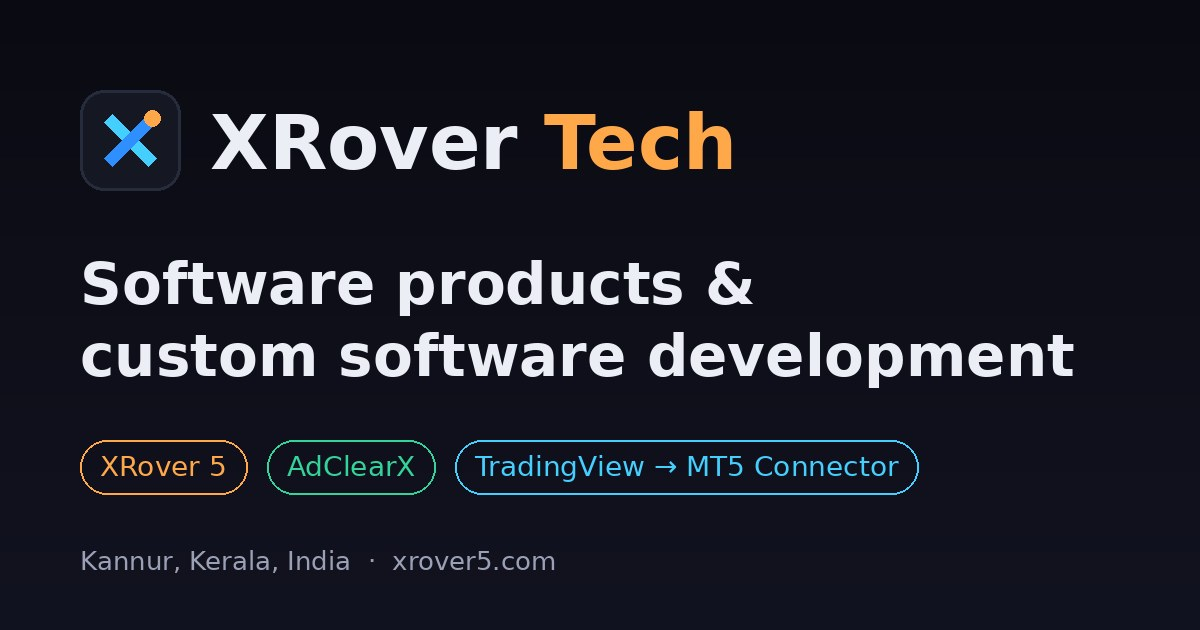
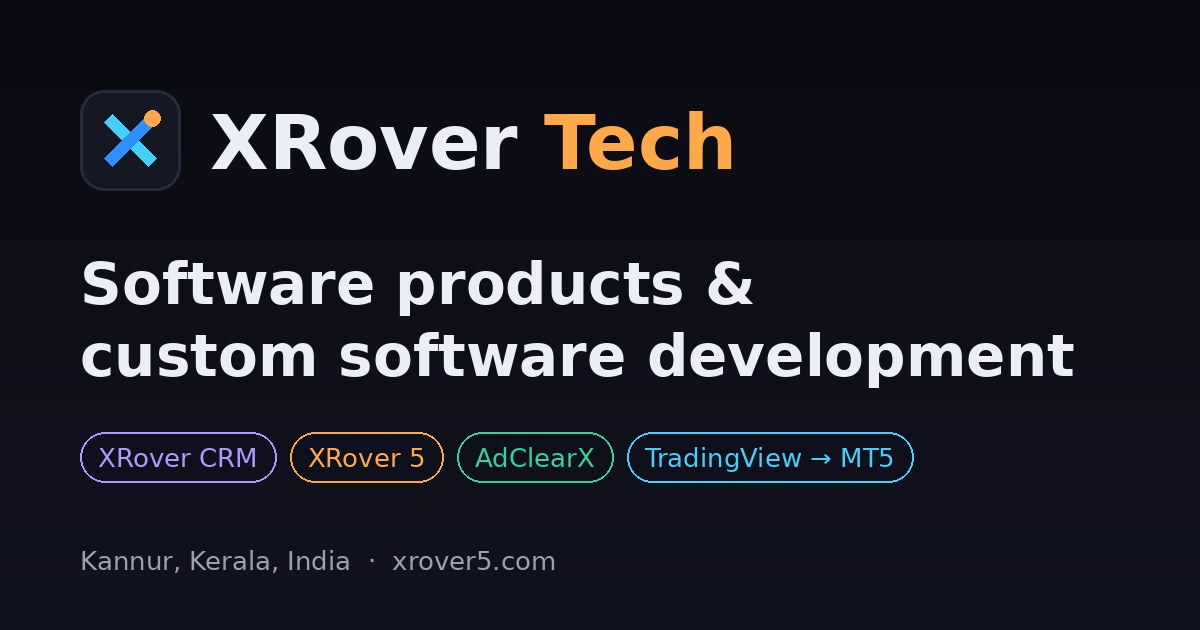
Add XRover CRM product: leads, WhatsApp Business API (voice chat & calls, chatbot, automated follow-ups), HR, accounts
Claude-Session: https://claude.ai/code/session_019he4hVPdZxb8uFMKnDGTTM

Changed region(s): [[0.0617, 0.6635, 0.7708, 0.8143]]

diff --git a/products/index.html b/products/index.html
@@ -3,22 +3,22 @@
 <head>
 <meta charset="utf-8">
 <meta name="viewport" content="width=device-width, initial-scale=1, viewport-fit=cover">
-<title>Products – XRover 5, AdClearX &amp; TradingView to MT5 Connector | XRover Tech</title>
-<meta name="description" content="Software products by XRover Tech: XRover 5 chart-analysis software for TradingView, AdClearX ad policy checker for Meta ads, and the TradingView to MT5 webhook connector.">
+<title>Products – XRover CRM, XRover 5, AdClearX &amp; MT5 Connector | XRover Tech</title>
+<meta name="description" content="XRover CRM: leads, HR, accounts and WhatsApp Business API with voice calls and automated follow-ups. Plus XRover 5, AdClearX and the TradingView to MT5 Connector.">
 <link rel="canonical" href="https://xrover5.com/products/">
 <meta name="robots" content="index, follow, max-image-preview:large">
 <meta name="theme-color" content="#0a0b12">
 <meta property="og:type" content="website">
 <meta property="og:site_name" content="XRover Tech">
 <meta property="og:url" content="https://xrover5.com/products/">
-<meta property="og:title" content="Products – XRover 5, AdClearX &amp; TradingView to MT5 Connector | XRover Tech">
-<meta property="og:description" content="Software products by XRover Tech: XRover 5 chart-analysis software for TradingView, AdClearX ad policy checker for Meta ads, and the TradingView to MT5 webhook connector.">
+<meta property="og:title" content="Products – XRover CRM, XRover 5, AdClearX &amp; MT5 Connector | XRover Tech">
+<meta property="og:description" content="XRover CRM: leads, HR, accounts and WhatsApp Business API with voice calls and automated follow-ups. Plus XRover 5, AdClearX and the TradingView to MT5 Connector.">
 <meta property="og:image" content="https://xrover5.com/assets/og-xrover-tech.jpg">
 <meta property="og:image:width" content="1200">
 <meta property="og:image:height" content="630">
 <meta name="twitter:card" content="summary_large_image">
-<meta name="twitter:title" content="Products – XRover 5, AdClearX &amp; TradingView to MT5 Connector | XRover Tech">
-<meta name="twitter:description" content="Software products by XRover Tech: XRover 5 chart-analysis software for TradingView, AdClearX ad policy checker for Meta ads, and the TradingView to MT5 webhook connector.">
+<meta name="twitter:title" content="Products – XRover CRM, XRover 5, AdClearX &amp; MT5 Connector | XRover Tech">
+<meta name="twitter:description" content="XRover CRM: leads, HR, accounts and WhatsApp Business API with voice calls and automated follow-ups. Plus XRover 5, AdClearX and the TradingView to MT5 Connector.">
 <meta name="twitter:image" content="https://xrover5.com/assets/og-xrover-tech.jpg">
 <link rel="icon" type="image/png" href="/assets/favicon.png">
 <link rel="apple-touch-icon" href="/assets/apple-touch-icon.png">
@@ -55,8 +55,8 @@
    "@type": "WebPage",
    "@id": "https://xrover5.com/products/",
    "url": "https://xrover5.com/products/",
-   "name": "Products – XRover 5, AdClearX & TradingView to MT5 Connector | XRover Tech",
-   "description": "Software products by XRover Tech: XRover 5 chart-analysis software for TradingView, AdClearX ad policy checker for Meta ads, and the TradingView to MT5 webhook connector.",
+   "name": "Products – XRover CRM, XRover 5, AdClearX & MT5 Connector | XRover Tech",
+   "description": "XRover CRM: leads, HR, accounts and WhatsApp Business API with voice calls and automated follow-ups. Plus XRover 5, AdClearX and the TradingView to MT5 Connector.",
    "isPartOf": {
     "@id": "https://xrover5.com/#website"
    },
@@ -73,6 +73,21 @@
      "position": 1,
      "item": {
       "@type": "SoftwareApplication",
+      "name": "XRover CRM",
+      "description": "Leads, sales, HR and accounts in one system, with WhatsApp Business API messaging, WhatsApp voice calls and automated follow-ups built in.",
+      "applicationCategory": "BusinessApplication",
+      "operatingSystem": "Web",
+      "url": "https://xrover5.com/products/#crm",
+      "publisher": {
+       "@id": "https://xrover5.com/#org"
+      }
+     }
+    },
+    {
+     "@type": "ListItem",
+     "position": 2,
+     "item": {
+      "@type": "SoftwareApplication",
       "name": "XRover 5",
       "description": "A TradingView indicator that analyses candlestick data in real time and maps zones, levels and alerts directly on the chart, with Telegram notifications.",
       "applicationCategory": "BusinessApplication",
@@ -85,7 +100,7 @@
     },
     {
      "@type": "ListItem",
-     "position": 2,
+     "position": 3,
      "item": {
       "@type": "SoftwareApplication",
       "name": "AdClearX",
@@ -100,7 +115,7 @@
     },
     {
      "@type": "ListItem",
-     "position": 3,
+     "position": 4,
      "item": {
       "@type": "SoftwareApplication",
       "name": "TradingView → MT5 Connector",
@@ -263,6 +278,21 @@ footer { border-top: 1px solid var(--line); background: var(--bg-2); padding-blo
 </style>
 <style>
 /* XRover Tech */
+.mods { display: grid; grid-template-columns: repeat(auto-fit, minmax(min(100%, 250px), 1fr)); gap: 16px; margin-top: 8px; }
+.mods .card h3 { display: flex; align-items: center; gap: 10px; }
+.mods .card h3 i { width: 10px; height: 10px; border-radius: 3px; display: inline-block; }
+.mods .card ul { margin: 0; padding-left: 1.1em; color: var(--muted); display: grid; gap: 6px; font-size: 15px; }
+.hl { display: grid; grid-template-columns: repeat(auto-fit, minmax(min(100%, 230px), 1fr)); gap: 14px; margin: 26px 0 10px; }
+.hl div { background: color-mix(in oklab, #8b6cff 12%, var(--surface)); border: 1px solid color-mix(in oklab, #8b6cff 40%, var(--line)); border-radius: 14px; padding: 16px 18px; }
+.hl b { display: block; font-size: 16px; margin-bottom: 4px; } .hl span { color: var(--muted); font-size: 14px; }
+.wa { background: linear-gradient(170deg, var(--surface-2), var(--bg-2)); border: 1px solid var(--line); border-radius: 16px; padding: 16px; display: grid; gap: 10px; font-size: 14px; }
+.wa .hd { display: flex; justify-content: space-between; align-items: center; padding-bottom: 8px; border-bottom: 1px solid var(--line); }
+.bub { max-width: 82%; padding: 10px 12px; border-radius: 12px; line-height: 1.45; }
+.bub.in { background: var(--surface); border: 1px solid var(--line); justify-self: start; }
+.bub.out { background: color-mix(in oklab, #25d366 22%, var(--surface)); border: 1px solid color-mix(in oklab, #25d366 40%, var(--line)); justify-self: end; }
+.bub small { display: block; color: var(--muted); font-size: 11px; margin-top: 4px; }
+.callbar { display: flex; gap: 10px; align-items: center; background: var(--bg-2); border: 1px solid var(--line); border-radius: 12px; padding: 10px 12px; }
+.callbar .dot { width: 10px; height: 10px; border-radius: 50%; background: #25d366; box-shadow: 0 0 0 4px color-mix(in oklab, #25d366 25%, transparent); }
 .wordmark { display: flex; align-items: center; gap: 10px; text-decoration: none; font-family: var(--display); font-weight: 800; font-size: 18px; letter-spacing: .01em; color: var(--fg); }
 .wordmark svg { width: 34px; height: 34px; flex: none; }
 .wordmark span b { color: var(--ember); font-weight: 800; }
@@ -336,11 +366,70 @@ footer { border-top: 1px solid var(--line); background: var(--bg-2); padding-blo
   <div class="wrap page-head">
     <span class="eyebrow">Products</span>
     <h1>Our software products</h1>
-    <p class="lead">Three products designed, built and supported by XRover Tech.</p>
-    <div class="btn-row"><a class="btn btn-ghost" href="#xrover5">XRover 5</a><a class="btn btn-ghost" href="#adclearx">AdClearX</a><a class="btn btn-ghost" href="#mt5-connector">TradingView → MT5 Connector</a></div>
+    <p class="lead">Business software and SaaS products designed, built and supported by XRover Tech.</p>
+    <div class="btn-row"><a class="btn btn-ghost" href="#crm">XRover CRM</a><a class="btn btn-ghost" href="#xrover5">XRover 5</a><a class="btn btn-ghost" href="#adclearx">AdClearX</a><a class="btn btn-ghost" href="#mt5-connector">TradingView → MT5 Connector</a></div>
   </div>
 
-  <section class="band" id="xrover5" style="padding-top:36px">
+  <section class="band" id="crm" style="padding-top:36px">
+    <div class="wrap product">
+      <div>
+        <span class="pill live">Live</span>
+        <h2>XRover CRM</h2>
+        <p class="lead">An all-in-one solution for complete business operations: lead management, sales, HR and accounts in one place, with the WhatsApp Business API built in.</p>
+        <div class="hl">
+          <div><b>WhatsApp voice chat & calls</b><span>Talk to customers by WhatsApp voice message or voice call, right from the CRM.</span></div>
+          <div><b>Automated follow-ups</b><span>Scheduled WhatsApp follow-ups and reminders, so no lead goes cold.</span></div>
+          <div><b>WhatsApp chatbot</b><span>Instant auto-replies with buttons and AI until your team takes over.</span></div>
+          <div><b>One shared inbox</b><span>WhatsApp chats and company email in one place for your team.</span></div>
+        </div>
+        <div class="btn-row" style="margin-top:12px"><a class="btn btn-primary" href="/contact/">Book a CRM demo</a></div>
+      </div>
+      <div class="wa" aria-hidden="true">
+        <div class="hd"><b>WhatsApp · New lead</b><span class="pill live">Auto-assigned</span></div>
+        <div class="bub in">Hi, I saw your ad. Can you share the details?<small>10:02</small></div>
+        <div class="bub out">Hello Anil 👋 Thanks for reaching out! Choose an option below.<small>10:02 · Auto-reply</small></div>
+        <div class="bub in">▶ ━━━━━━━━ 0:18 &nbsp;Voice message<small>10:05</small></div>
+        <div class="callbar"><span class="dot"></span><span><b>WhatsApp voice call</b><br><span class="mono">Rahul (Sales) · 03:42</span></span></div>
+        <div class="bub out">Follow-up scheduled for tomorrow, 11:00 AM ✓<small>Automation</small></div>
+      </div>
+    </div>
+    <div class="wrap">
+      <div class="mods" style="margin-top:44px">
+        <div class="card"><h3><i style="background:#8b6cff"></i>Lead management</h3><ul>
+          <li>Leads from Meta lead ads, Click-to-WhatsApp ads, YouTube and website forms</li>
+          <li>Automatic lead distribution based on staff attendance</li>
+          <li>Lead stages, notes, reminders and full history</li>
+          <li>Unattended leads reassigned automatically in office hours</li></ul></div>
+        <div class="card"><h3><i style="background:#25d366"></i>WhatsApp Business API</h3><ul>
+          <li>Official WhatsApp Cloud API integration</li>
+          <li>WhatsApp voice messages and voice calls</li>
+          <li>Chatbot with buttons, AI replies and language choice</li>
+          <li>Automated follow-ups, welcome messages and broadcasts</li></ul></div>
+        <div class="card"><h3><i style="background:#45cfff"></i>HR management</h3><ul>
+          <li>Attendance with face scan and location</li>
+          <li>Salary plans, targets and incentives</li>
+          <li>Roles for admins, managers and staff</li>
+          <li>Staff performance dashboards</li></ul></div>
+        <div class="card"><h3><i style="background:#ffa84a"></i>Accounts management</h3><ul>
+          <li>Income, expenses and payment records</li>
+          <li>Payment links and payment-proof approvals</li>
+          <li>Partner and investment tracking with monthly summaries</li>
+          <li>Reports for owners and admins</li></ul></div>
+        <div class="card"><h3><i style="background:#fb6f84"></i>Customer app</h3><ul>
+          <li>Customer portal with in-app videos</li>
+          <li>Automatic renewal and expiry reminders</li>
+          <li>In-app chat and free browser voice calls</li>
+          <li>Terms acceptance and quizzes before access</li></ul></div>
+        <div class="card"><h3><i style="background:#34d399"></i>Communication & inbox</h3><ul>
+          <li>Company email inbox inside the CRM</li>
+          <li>Team chat history on every customer</li>
+          <li>Admin-only visibility controls</li>
+          <li>Notifications for new leads and tasks</li></ul></div>
+      </div>
+    </div>
+  </section>
+
+  <section class="band" id="xrover5">
     <div class="wrap product">
       <div>
         <span class="pill live">Live</span>

diff --git a/index.html b/index.html
@@ -4,7 +4,7 @@
 <meta charset="utf-8">
 <meta name="viewport" content="width=device-width, initial-scale=1, viewport-fit=cover">
 <title>XRover Tech – Software Products &amp; Custom Software Development</title>
-<meta name="description" content="XRover Tech is a software company in Kerala, India building SaaS products, TradingView tools and custom business software. Products: XRover 5, AdClearX and the TradingView to MT5 Connector.">
+<meta name="description" content="XRover Tech is a software company in Kerala, India. Products: XRover CRM with WhatsApp Business API, HR and accounts, plus XRover 5, AdClearX and a TradingView to MT5 Connector.">
 <link rel="canonical" href="https://xrover5.com/">
 <meta name="robots" content="index, follow, max-image-preview:large">
 <meta name="theme-color" content="#0a0b12">
@@ -12,13 +12,13 @@
 <meta property="og:site_name" content="XRover Tech">
 <meta property="og:url" content="https://xrover5.com/">
 <meta property="og:title" content="XRover Tech – Software Products &amp; Custom Software Development">
-<meta property="og:description" content="XRover Tech is a software company in Kerala, India building SaaS products, TradingView tools and custom business software. Products: XRover 5, AdClearX and the TradingView to MT5 Connector.">
+<meta property="og:description" content="XRover Tech is a software company in Kerala, India. Products: XRover CRM with WhatsApp Business API, HR and accounts, plus XRover 5, AdClearX and a TradingView to MT5 Connector.">
 <meta property="og:image" content="https://xrover5.com/assets/og-xrover-tech.jpg">
 <meta property="og:image:width" content="1200">
 <meta property="og:image:height" content="630">
 <meta name="twitter:card" content="summary_large_image">
 <meta name="twitter:title" content="XRover Tech – Software Products &amp; Custom Software Development">
-<meta name="twitter:description" content="XRover Tech is a software company in Kerala, India building SaaS products, TradingView tools and custom business software. Products: XRover 5, AdClearX and the TradingView to MT5 Connector.">
+<meta name="twitter:description" content="XRover Tech is a software company in Kerala, India. Products: XRover CRM with WhatsApp Business API, HR and accounts, plus XRover 5, AdClearX and a TradingView to MT5 Connector.">
 <meta name="twitter:image" content="https://xrover5.com/assets/og-xrover-tech.jpg">
 <link rel="icon" type="image/png" href="/assets/favicon.png">
 <link rel="apple-touch-icon" href="/assets/apple-touch-icon.png">
@@ -56,7 +56,7 @@
    "@id": "https://xrover5.com/",
    "url": "https://xrover5.com/",
    "name": "XRover Tech – Software Products & Custom Software Development",
-   "description": "XRover Tech is a software company in Kerala, India building SaaS products, TradingView tools and custom business software. Products: XRover 5, AdClearX and the TradingView to MT5 Connector.",
+   "description": "XRover Tech is a software company in Kerala, India. Products: XRover CRM with WhatsApp Business API, HR and accounts, plus XRover 5, AdClearX and a TradingView to MT5 Connector.",
    "isPartOf": {
     "@id": "https://xrover5.com/#website"
    },
@@ -212,6 +212,21 @@ footer { border-top: 1px solid var(--line); background: var(--bg-2); padding-blo
 </style>
 <style>
 /* XRover Tech */
+.mods { display: grid; grid-template-columns: repeat(auto-fit, minmax(min(100%, 250px), 1fr)); gap: 16px; margin-top: 8px; }
+.mods .card h3 { display: flex; align-items: center; gap: 10px; }
+.mods .card h3 i { width: 10px; height: 10px; border-radius: 3px; display: inline-block; }
+.mods .card ul { margin: 0; padding-left: 1.1em; color: var(--muted); display: grid; gap: 6px; font-size: 15px; }
+.hl { display: grid; grid-template-columns: repeat(auto-fit, minmax(min(100%, 230px), 1fr)); gap: 14px; margin: 26px 0 10px; }
+.hl div { background: color-mix(in oklab, #8b6cff 12%, var(--surface)); border: 1px solid color-mix(in oklab, #8b6cff 40%, var(--line)); border-radius: 14px; padding: 16px 18px; }
+.hl b { display: block; font-size: 16px; margin-bottom: 4px; } .hl span { color: var(--muted); font-size: 14px; }
+.wa { background: linear-gradient(170deg, var(--surface-2), var(--bg-2)); border: 1px solid var(--line); border-radius: 16px; padding: 16px; display: grid; gap: 10px; font-size: 14px; }
+.wa .hd { display: flex; justify-content: space-between; align-items: center; padding-bottom: 8px; border-bottom: 1px solid var(--line); }
+.bub { max-width: 82%; padding: 10px 12px; border-radius: 12px; line-height: 1.45; }
+.bub.in { background: var(--surface); border: 1px solid var(--line); justify-self: start; }
+.bub.out { background: color-mix(in oklab, #25d366 22%, var(--surface)); border: 1px solid color-mix(in oklab, #25d366 40%, var(--line)); justify-self: end; }
+.bub small { display: block; color: var(--muted); font-size: 11px; margin-top: 4px; }
+.callbar { display: flex; gap: 10px; align-items: center; background: var(--bg-2); border: 1px solid var(--line); border-radius: 12px; padding: 10px 12px; }
+.callbar .dot { width: 10px; height: 10px; border-radius: 50%; background: #25d366; box-shadow: 0 0 0 4px color-mix(in oklab, #25d366 25%, transparent); }
 .wordmark { display: flex; align-items: center; gap: 10px; text-decoration: none; font-family: var(--display); font-weight: 800; font-size: 18px; letter-spacing: .01em; color: var(--fg); }
 .wordmark svg { width: 34px; height: 34px; flex: none; }
 .wordmark span b { color: var(--ember); font-weight: 800; }
@@ -286,12 +301,12 @@ footer { border-top: 1px solid var(--line); background: var(--bg-2); padding-blo
     <div>
       <span class="eyebrow">XRover Tech · Software company · Kerala, India</span>
       <h1>We build software that <em>automates real work.</em></h1>
-      <p class="lead">XRover Tech designs, builds and supports SaaS products, TradingView tools and custom business software, from first idea to launch and beyond.</p>
+      <p class="lead">XRover Tech designs, builds and supports business software: an all-in-one CRM with WhatsApp Business API, SaaS products, TradingView tools and custom applications.</p>
       <div class="btn-row" style="margin-top:28px"><a class="btn btn-primary" href="/products/">Explore our products</a><a class="btn btn-ghost" href="/contact/">Start a project</a></div>
     </div>
     <div class="stack" aria-label="XRover Tech products">
       <div class="bar"><i></i><i></i><i></i></div>
-      <a class="prow" href="/products/#xrover5"><span class="picon" style="background:linear-gradient(135deg,#ffd394,#ffa84a)">X5</span><span><b>XRover 5</b><small>Chart-analysis software for TradingView</small></span><span class="pill live">Live</span></a><a class="prow" href="/products/#adclearx"><span class="picon" style="background:linear-gradient(135deg,#7ef0c3,#34d399)">AC</span><span><b>AdClearX</b><small>Ad policy & creative checker for Meta ads</small></span><span class="pill soon">Early access</span></a><a class="prow" href="/products/#mt5-connector"><span class="picon" style="background:linear-gradient(135deg,#8fd3ff,#2f8fff)">MT</span><span><b>TradingView → MT5 Connector</b><small>Webhook automation between TradingView and MetaTrader 5</small></span><span class="pill soon">Coming soon</span></a>
+      <a class="prow" href="/products/#crm"><span class="picon" style="background:linear-gradient(135deg,#c9b6ff,#8b6cff)">CR</span><span><b>XRover CRM</b><small>All-in-one business operations suite</small></span><span class="pill live">Live</span></a><a class="prow" href="/products/#xrover5"><span class="picon" style="background:linear-gradient(135deg,#ffd394,#ffa84a)">X5</span><span><b>XRover 5</b><small>Chart-analysis software for TradingView</small></span><span class="pill live">Live</span></a><a class="prow" href="/products/#adclearx"><span class="picon" style="background:linear-gradient(135deg,#7ef0c3,#34d399)">AC</span><span><b>AdClearX</b><small>Ad policy & creative checker for Meta ads</small></span><span class="pill soon">Early access</span></a><a class="prow" href="/products/#mt5-connector"><span class="picon" style="background:linear-gradient(135deg,#8fd3ff,#2f8fff)">MT</span><span><b>TradingView → MT5 Connector</b><small>Webhook automation between TradingView and MetaTrader 5</small></span><span class="pill soon">Coming soon</span></a>
     </div>
   </div>
 
@@ -299,8 +314,14 @@ footer { border-top: 1px solid var(--line); background: var(--bg-2); padding-blo
     <div class="wrap">
       <div class="band-head"><span class="eyebrow">Our products</span><h2>Software we build and run</h2>
         <p class="lead">Each product is designed, developed and supported in-house by the XRover Tech team.</p></div>
-      <div class="grid3">
+      <div class="grid2">
       <article class="card prod-card">
+        <div class="top"><span class="picon" style="background:linear-gradient(135deg,#c9b6ff,#8b6cff)">CR</span><span class="pill live">Live</span></div>
+        <h3>XRover CRM</h3>
+        <p><strong style="color:var(--fg)">All-in-one business operations suite.</strong> Leads, sales, HR and accounts in one system, with WhatsApp Business API messaging, WhatsApp voice calls and automated follow-ups built in.</p>
+        <div class="tags"><span>WhatsApp Business API</span><span>HR & payroll</span><span>Accounts</span><span>Automation</span></div>
+        <a class="more" href="/products/#crm">Learn more →</a>
+      </article><article class="card prod-card">
         <div class="top"><span class="picon" style="background:linear-gradient(135deg,#ffd394,#ffa84a)">X5</span><span class="pill live">Live</span></div>
         <h3>XRover 5</h3>
         <p><strong style="color:var(--fg)">Chart-analysis software for TradingView.</strong> A TradingView indicator that analyses candlestick data in real time and maps zones, levels and alerts directly on the chart, with Telegram notifications.</p>

diff --git a/services/index.html b/services/index.html
@@ -72,7 +72,7 @@
      "name": "What does XRover Tech do?",
      "acceptedAnswer": {
       "@type": "Answer",
-      "text": "XRover Tech is a software company. We build our own software products, including XRover 5, AdClearX and the TradingView to MT5 Connector, and we develop custom software for other businesses."
+      "text": "XRover Tech is a software company. We build our own software products, including XRover CRM, XRover 5, AdClearX and the TradingView to MT5 Connector, and we develop custom software for other businesses."
      }
     },
     {
@@ -257,6 +257,21 @@ footer { border-top: 1px solid var(--line); background: var(--bg-2); padding-blo
 </style>
 <style>
 /* XRover Tech */
+.mods { display: grid; grid-template-columns: repeat(auto-fit, minmax(min(100%, 250px), 1fr)); gap: 16px; margin-top: 8px; }
+.mods .card h3 { display: flex; align-items: center; gap: 10px; }
+.mods .card h3 i { width: 10px; height: 10px; border-radius: 3px; display: inline-block; }
+.mods .card ul { margin: 0; padding-left: 1.1em; color: var(--muted); display: grid; gap: 6px; font-size: 15px; }
+.hl { display: grid; grid-template-columns: repeat(auto-fit, minmax(min(100%, 230px), 1fr)); gap: 14px; margin: 26px 0 10px; }
+.hl div { background: color-mix(in oklab, #8b6cff 12%, var(--surface)); border: 1px solid color-mix(in oklab, #8b6cff 40%, var(--line)); border-radius: 14px; padding: 16px 18px; }
+.hl b { display: block; font-size: 16px; margin-bottom: 4px; } .hl span { color: var(--muted); font-size: 14px; }
+.wa { background: linear-gradient(170deg, var(--surface-2), var(--bg-2)); border: 1px solid var(--line); border-radius: 16px; padding: 16px; display: grid; gap: 10px; font-size: 14px; }
+.wa .hd { display: flex; justify-content: space-between; align-items: center; padding-bottom: 8px; border-bottom: 1px solid var(--line); }
+.bub { max-width: 82%; padding: 10px 12px; border-radius: 12px; line-height: 1.45; }
+.bub.in { background: var(--surface); border: 1px solid var(--line); justify-self: start; }
+.bub.out { background: color-mix(in oklab, #25d366 22%, var(--surface)); border: 1px solid color-mix(in oklab, #25d366 40%, var(--line)); justify-self: end; }
+.bub small { display: block; color: var(--muted); font-size: 11px; margin-top: 4px; }
+.callbar { display: flex; gap: 10px; align-items: center; background: var(--bg-2); border: 1px solid var(--line); border-radius: 12px; padding: 10px 12px; }
+.callbar .dot { width: 10px; height: 10px; border-radius: 50%; background: #25d366; box-shadow: 0 0 0 4px color-mix(in oklab, #25d366 25%, transparent); }
 .wordmark { display: flex; align-items: center; gap: 10px; text-decoration: none; font-family: var(--display); font-weight: 800; font-size: 18px; letter-spacing: .01em; color: var(--fg); }
 .wordmark svg { width: 34px; height: 34px; flex: none; }
 .wordmark span b { color: var(--ember); font-weight: 800; }
@@ -375,7 +390,7 @@ footer { border-top: 1px solid var(--line); background: var(--bg-2); padding-blo
     <div class="wrap">
       <div class="band-head"><span class="eyebrow">FAQ</span><h2>Frequently asked questions</h2></div>
       <div class="faq-list">
-      <details><summary>What does XRover Tech do?</summary><p>XRover Tech is a software company. We build our own software products, including XRover 5, AdClearX and the TradingView to MT5 Connector, and we develop custom software for other businesses.</p></details><details><summary>Do you build custom software for other companies?</summary><p>Yes. We build web applications, SaaS products, automations, integrations, CRM tools and TradingView Pine Script tools for clients.</p></details><details><summary>Where is XRover Tech based?</summary><p>We are based in Kannur, Kerala, India, and work with clients remotely.</p></details><details><summary>How do we start a project?</summary><p>Send us a message with a short description of what you need. We&#x27;ll reply with questions and next steps, usually within one business day.</p></details><details><summary>Do you provide support after launch?</summary><p>Yes. We offer hosting setup, monitoring, updates and ongoing improvements for the software we build.</p></details>
+      <details><summary>What does XRover Tech do?</summary><p>XRover Tech is a software company. We build our own software products, including XRover CRM, XRover 5, AdClearX and the TradingView to MT5 Connector, and we develop custom software for other businesses.</p></details><details><summary>Do you build custom software for other companies?</summary><p>Yes. We build web applications, SaaS products, automations, integrations, CRM tools and TradingView Pine Script tools for clients.</p></details><details><summary>Where is XRover Tech based?</summary><p>We are based in Kannur, Kerala, India, and work with clients remotely.</p></details><details><summary>How do we start a project?</summary><p>Send us a message with a short description of what you need. We&#x27;ll reply with questions and next steps, usually within one business day.</p></details><details><summary>Do you provide support after launch?</summary><p>Yes. We offer hosting setup, monitoring, updates and ongoing improvements for the software we build.</p></details>
       </div>
     </div>
   </section>

diff --git a/404.html b/404.html
@@ -212,6 +212,21 @@ footer { border-top: 1px solid var(--line); background: var(--bg-2); padding-blo
 </style>
 <style>
 /* XRover Tech */
+.mods { display: grid; grid-template-columns: repeat(auto-fit, minmax(min(100%, 250px), 1fr)); gap: 16px; margin-top: 8px; }
+.mods .card h3 { display: flex; align-items: center; gap: 10px; }
+.mods .card h3 i { width: 10px; height: 10px; border-radius: 3px; display: inline-block; }
+.mods .card ul { margin: 0; padding-left: 1.1em; color: var(--muted); display: grid; gap: 6px; font-size: 15px; }
+.hl { display: grid; grid-template-columns: repeat(auto-fit, minmax(min(100%, 230px), 1fr)); gap: 14px; margin: 26px 0 10px; }
+.hl div { background: color-mix(in oklab, #8b6cff 12%, var(--surface)); border: 1px solid color-mix(in oklab, #8b6cff 40%, var(--line)); border-radius: 14px; padding: 16px 18px; }
+.hl b { display: block; font-size: 16px; margin-bottom: 4px; } .hl span { color: var(--muted); font-size: 14px; }
+.wa { background: linear-gradient(170deg, var(--surface-2), var(--bg-2)); border: 1px solid var(--line); border-radius: 16px; padding: 16px; display: grid; gap: 10px; font-size: 14px; }
+.wa .hd { display: flex; justify-content: space-between; align-items: center; padding-bottom: 8px; border-bottom: 1px solid var(--line); }
+.bub { max-width: 82%; padding: 10px 12px; border-radius: 12px; line-height: 1.45; }
+.bub.in { background: var(--surface); border: 1px solid var(--line); justify-self: start; }
+.bub.out { background: color-mix(in oklab, #25d366 22%, var(--surface)); border: 1px solid color-mix(in oklab, #25d366 40%, var(--line)); justify-self: end; }
+.bub small { display: block; color: var(--muted); font-size: 11px; margin-top: 4px; }
+.callbar { display: flex; gap: 10px; align-items: center; background: var(--bg-2); border: 1px solid var(--line); border-radius: 12px; padding: 10px 12px; }
+.callbar .dot { width: 10px; height: 10px; border-radius: 50%; background: #25d366; box-shadow: 0 0 0 4px color-mix(in oklab, #25d366 25%, transparent); }
 .wordmark { display: flex; align-items: center; gap: 10px; text-decoration: none; font-family: var(--display); font-weight: 800; font-size: 18px; letter-spacing: .01em; color: var(--fg); }
 .wordmark svg { width: 34px; height: 34px; flex: none; }
 .wordmark span b { color: var(--ember); font-weight: 800; }

diff --git a/contact/index.html b/contact/index.html
@@ -217,6 +217,21 @@ footer { border-top: 1px solid var(--line); background: var(--bg-2); padding-blo
 </style>
 <style>
 /* XRover Tech */
+.mods { display: grid; grid-template-columns: repeat(auto-fit, minmax(min(100%, 250px), 1fr)); gap: 16px; margin-top: 8px; }
+.mods .card h3 { display: flex; align-items: center; gap: 10px; }
+.mods .card h3 i { width: 10px; height: 10px; border-radius: 3px; display: inline-block; }
+.mods .card ul { margin: 0; padding-left: 1.1em; color: var(--muted); display: grid; gap: 6px; font-size: 15px; }
+.hl { display: grid; grid-template-columns: repeat(auto-fit, minmax(min(100%, 230px), 1fr)); gap: 14px; margin: 26px 0 10px; }
+.hl div { background: color-mix(in oklab, #8b6cff 12%, var(--surface)); border: 1px solid color-mix(in oklab, #8b6cff 40%, var(--line)); border-radius: 14px; padding: 16px 18px; }
+.hl b { display: block; font-size: 16px; margin-bottom: 4px; } .hl span { color: var(--muted); font-size: 14px; }
+.wa { background: linear-gradient(170deg, var(--surface-2), var(--bg-2)); border: 1px solid var(--line); border-radius: 16px; padding: 16px; display: grid; gap: 10px; font-size: 14px; }
+.wa .hd { display: flex; justify-content: space-between; align-items: center; padding-bottom: 8px; border-bottom: 1px solid var(--line); }
+.bub { max-width: 82%; padding: 10px 12px; border-radius: 12px; line-height: 1.45; }
+.bub.in { background: var(--surface); border: 1px solid var(--line); justify-self: start; }
+.bub.out { background: color-mix(in oklab, #25d366 22%, var(--surface)); border: 1px solid color-mix(in oklab, #25d366 40%, var(--line)); justify-self: end; }
+.bub small { display: block; color: var(--muted); font-size: 11px; margin-top: 4px; }
+.callbar { display: flex; gap: 10px; align-items: center; background: var(--bg-2); border: 1px solid var(--line); border-radius: 12px; padding: 10px 12px; }
+.callbar .dot { width: 10px; height: 10px; border-radius: 50%; background: #25d366; box-shadow: 0 0 0 4px color-mix(in oklab, #25d366 25%, transparent); }
 .wordmark { display: flex; align-items: center; gap: 10px; text-decoration: none; font-family: var(--display); font-weight: 800; font-size: 18px; letter-spacing: .01em; color: var(--fg); }
 .wordmark svg { width: 34px; height: 34px; flex: none; }
 .wordmark span b { color: var(--ember); font-weight: 800; }
